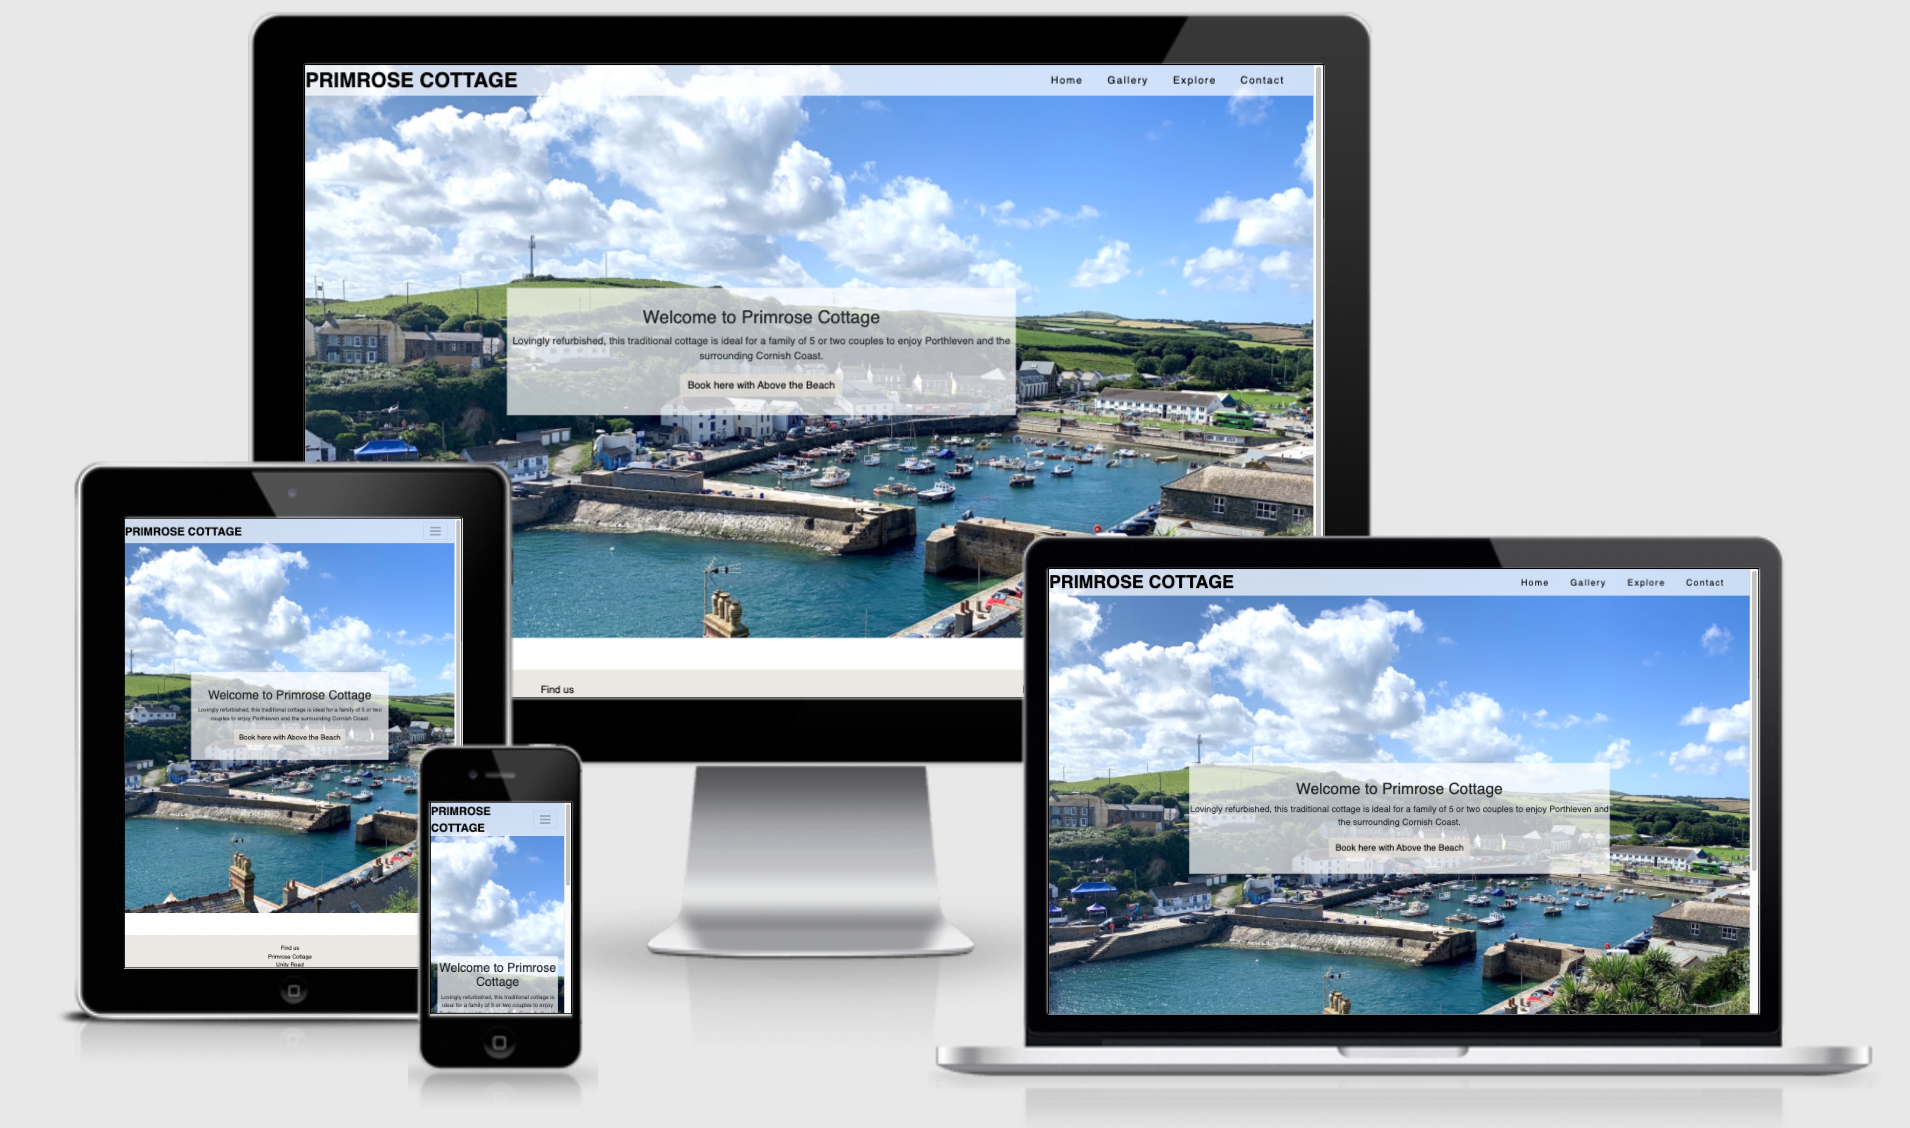
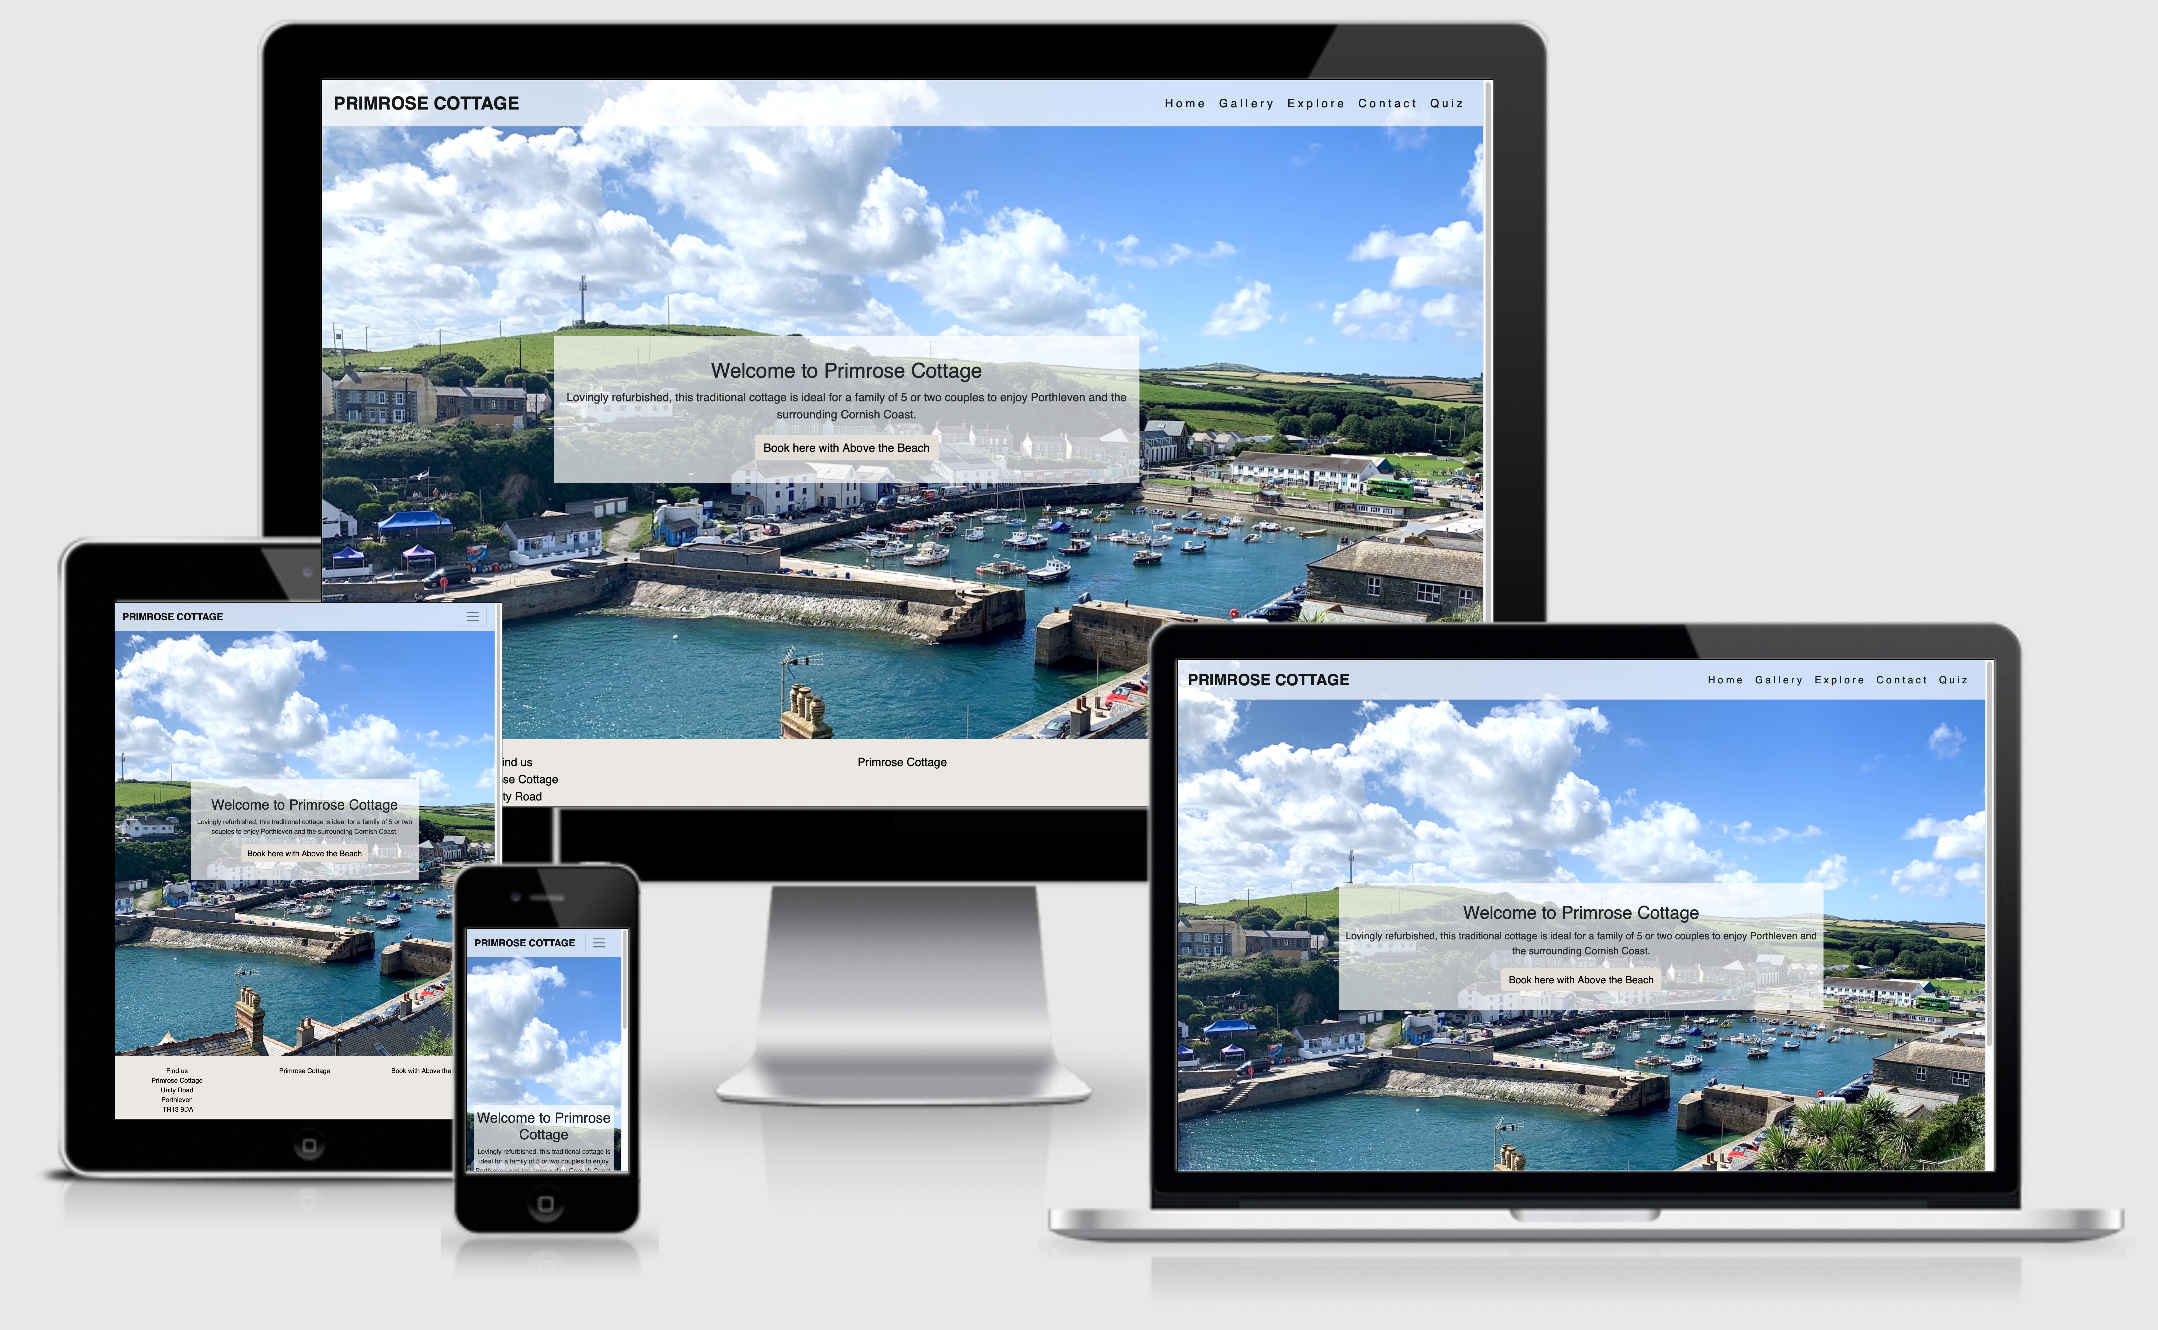
explore styling changes

diff --git a/explore.html b/explore.html
@@ -68,15 +68,15 @@
     <!---------------------------------------------------------Explore page further information-->
     <div class="container explore-container">
         <div class="row">
-            <div class="col-sm-6 explore-info">
-                <h3>Porthleven</h3>
+            <div class="col-sm-12 explore-info">
+                <h4>Porthleven</h4>
                 <p>The harbour is fast gaining a reputation as the next Cornish hotspot when it comes to food tourism.</p> 
                 <p>In the summer months when the tide is it is full of groups diving in from the sides, paddleboarders, and other watersports.</p>
             </div>
-            <div class="col-sm-6 explore-info">
-                <h3>Beaches</h3>
+            <div class="col-sm-12 explore-info">
+                <h4>Beaches</h4>
                 <p>These are just a few of our favourite beaches, there are many more.</p>
-                <h5>Praa Sands (TR20 9TQ)</h5>
+                <h6>Praa Sands</h6>
                 <p>Good long beach, perfect for surfing and body boarding.</p>
                 <h5>Kynance cove</h5>
                 <p>Voted top 10 beach in the UK when the tide is low with stunning views.</p>
@@ -85,21 +85,21 @@
                 <h5>Marazion</h5>
                 <p>When the tide is out, you can walk to St Micheals Mount or a boat if the tide is in.</p>
             </div>
-            <div class="col-sm-6 explore-info">
-                <h3>Walks</h3>
+            <div class="col-sm-12 explore-info">
+                <h4>Walks</h4>
                 <p>Coastal path goes both ways out of Porthleven.</p>
                 <p>Walking past The Ship Inn goes to Rinsey which is a 5km walk or to Praa Sands for a 10km walk.</p>
                 <p>Walking past the Atlantic Inn, there is a walk through the penrose Estate to Loe Bar.</p>
                 <p><i> Warning: you cannot swim in Loe Bar, it is very dangerous.</i></p>
             </div>
-            <div class="col-sm-6 explore-info">
-                <h3>Restaurants and Pubs</h3>
+            <div class="col-sm-12 explore-info">
+                <h4>Pubs and Restaurants</h4>
                 <h6>Kota Kai</h6>
                 <h6>The Square</h6>
                 <h6>Amelia's</h6>
                 <h6>Kota</h6>
                 <h6>Michael Cains</h6>
-                <h6>Naughty but Nice</h6>
+                <h6>Naughti but Ice</h6>
                 <h6>Harbour Inn</h6>
                 <h6>Ship Inn</h6>
                 <h6>The Mussel Shoal</h6>
@@ -114,10 +114,10 @@
     <footer class="container-fluid text-center">
         <div class="row site-footer">
             <div class="col-sm-4">
-                <a href="contact.html" class="hvr-grow" rel="noreferrer"><span>Find us <br>Primrose Cottage <br>Unity Road <br> Porthleven <br>TR13 9DA</span></a>
+                <a href="contact.html" class="hvr-grow" rel="noreferrer"><span>Primrose Cottage <br>Unity Road <br> Porthleven <br>TR13 9DA</span></a>
                 <i class= aria-hidden="true"></i>
             </div>
-            <div class="col-sm-4">
+            <div class="col-sm-4 text-transform">
                 <a href="index.html" class="hvr-grow">Primrose Cottage</a>
             </div>
             <div class="col-sm-4">

diff --git a/gallery.html b/gallery.html
@@ -160,10 +160,10 @@
     <footer class="container-fluid text-center">
         <div class="row site-footer">
             <div class="col-sm-4">
-                <a href="contact.html" class="hvr-grow" rel="noreferrer"><span>Find us <br>Primrose Cottage <br>Unity Road <br> Porthleven <br>TR13 9DA</span></a>
+                <a href="contact.html" class="hvr-grow" rel="noreferrer"><span>Primrose Cottage <br>Unity Road <br> Porthleven <br>TR13 9DA</span></a>
                 <i class= aria-hidden="true"></i>
             </div>
-            <div class="col-sm-4">
+            <div class="col-sm-4 text-transform">
                 <a href="index.html" class="hvr-grow">Primrose Cottage</a>
             </div>
             <div class="col-sm-4">

diff --git a/contact.html b/contact.html
@@ -85,10 +85,10 @@
     <footer class="container-fluid text-center">
         <div class="row site-footer">
             <div class="col-sm-4">
-                <a href="contact.html" class="hvr-grow" rel="noreferrer"><span>Find us <br>Primrose Cottage <br>Unity Road <br> Porthleven <br>TR13 9DA</span></a>
+                <a href="contact.html" class="hvr-grow" rel="noreferrer"><span>Primrose Cottage <br>Unity Road <br> Porthleven <br>TR13 9DA</span></a>
                 <i class= aria-hidden="true"></i>
             </div>
-            <div class="col-sm-4">
+            <div class="col-sm-4 text-transform">
                 <a href="index.html" class="hvr-grow">Primrose Cottage</a>
             </div>
             <div class="col-sm-4">

diff --git a/index.html b/index.html
@@ -61,10 +61,10 @@
     <footer class="container-fluid text-center">
         <div class="row site-footer">
             <div class="col-sm-4">
-                <a href="contact.html" class="hvr-grow" rel="noreferrer"><span>Find us <br>Primrose Cottage <br>Unity Road <br> Porthleven <br>TR13 9DA</span></a>
+                <a href="contact.html" class="hvr-grow" rel="noreferrer"><span>Primrose Cottage <br>Unity Road <br> Porthleven <br>TR13 9DA</span></a>
                 <i class= aria-hidden="true"></i>
             </div>
-            <div class="col-sm-4">
+            <div class="col-sm-4 text-transform">
                 <a href="index.html" class="hvr-grow">Primrose Cottage</a>
             </div>
             <div class="col-sm-4">

diff --git a/quiz.html b/quiz.html
@@ -56,10 +56,10 @@
     <footer class="container-fluid text-center">
         <div class="row site-footer">
             <div class="col-sm-4">
-                <a href="contact.html" class="hvr-grow" rel="noreferrer"><span>Find us <br>Primrose Cottage <br>Unity Road <br> Porthleven <br>TR13 9DA</span></a>
+                <a href="contact.html" class="hvr-grow" rel="noreferrer"><span>Primrose Cottage <br>Unity Road <br> Porthleven <br>TR13 9DA</span></a>
                 <i class= aria-hidden="true"></i>
             </div>
-            <div class="col-sm-4">
+            <div class="col-sm-4 text-transform">
                 <a href="index.html" class="hvr-grow">Primrose Cottage</a>
             </div>
             <div class="col-sm-4">

diff --git a/assets/css/style.css b/assets/css/style.css
@@ -192,8 +192,15 @@ header ul li a {
 } 
 
 .explore-container {
-    margin-bottom: 20px;
+    margin-bottom: 20px; 
 }
+
+.explore-info {
+    background-color: #e4dfd749;
+    margin-top: 5px;
+    margin-bottom: 5px;
+}
+
 
 /*---------------------------------------------------------------------------------Contact----*/ 
 
@@ -255,6 +262,11 @@ footer {
     text-decoration: none;
     margin-top: 20px;
     margin-bottom: 20px;
+}
+
+.text-transform {
+    text-transform: uppercase;
+    font-weight: 600;
 }
 
 /*---------------------------------------------------------------------------------Explore----*/

diff --git a/assets/js/google-places.js b/assets/js/google-places.js
@@ -2,9 +2,9 @@
 
 
 function initMap() {
-    const myLatLng = { lat: 50.086221, lng: -5.310867 };
+    const myLatLng = { lat: 50.08533653517827, lng: -5.316203635722799 };
     const map = new google.maps.Map(document.getElementById("map-explore"), {
-        zoom: 18,
+        zoom: 16,
         center: myLatLng,
     });
     new google.maps.Marker({

diff --git a/assets/js/contact-map.js b/assets/js/contact-map.js
@@ -15,3 +15,4 @@ function initMap() {
         map,
     });
 }
+
